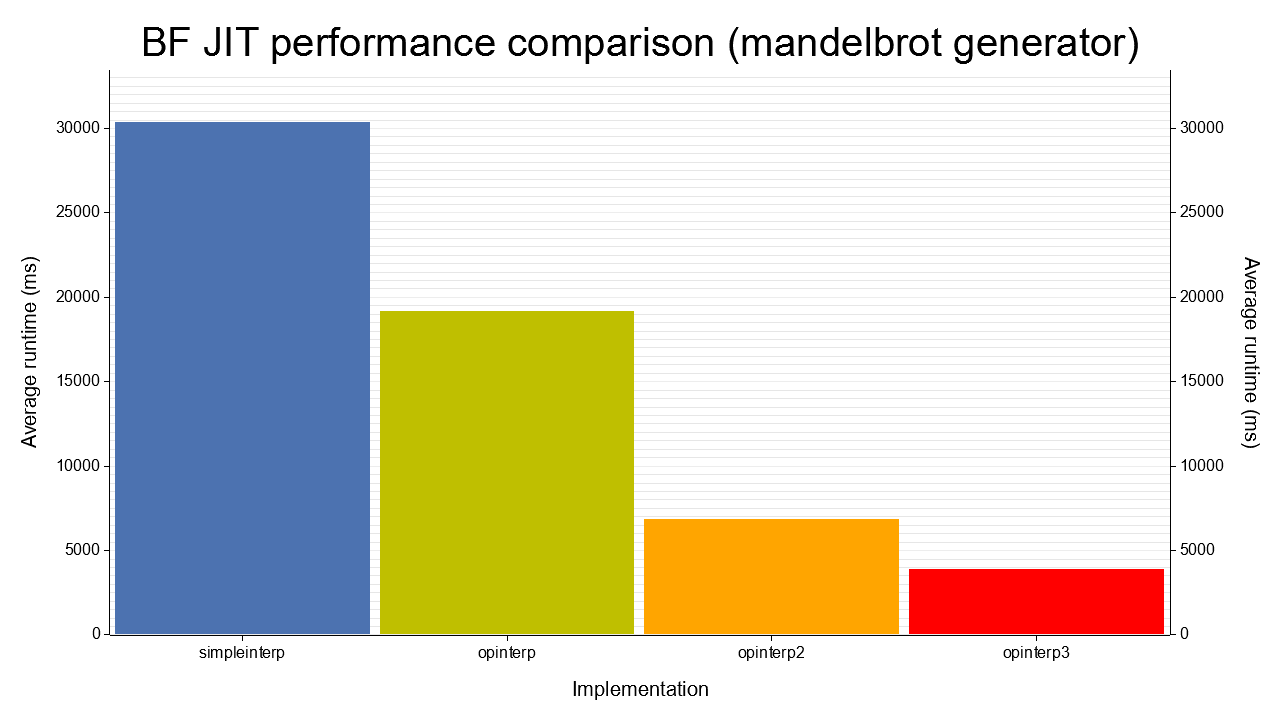
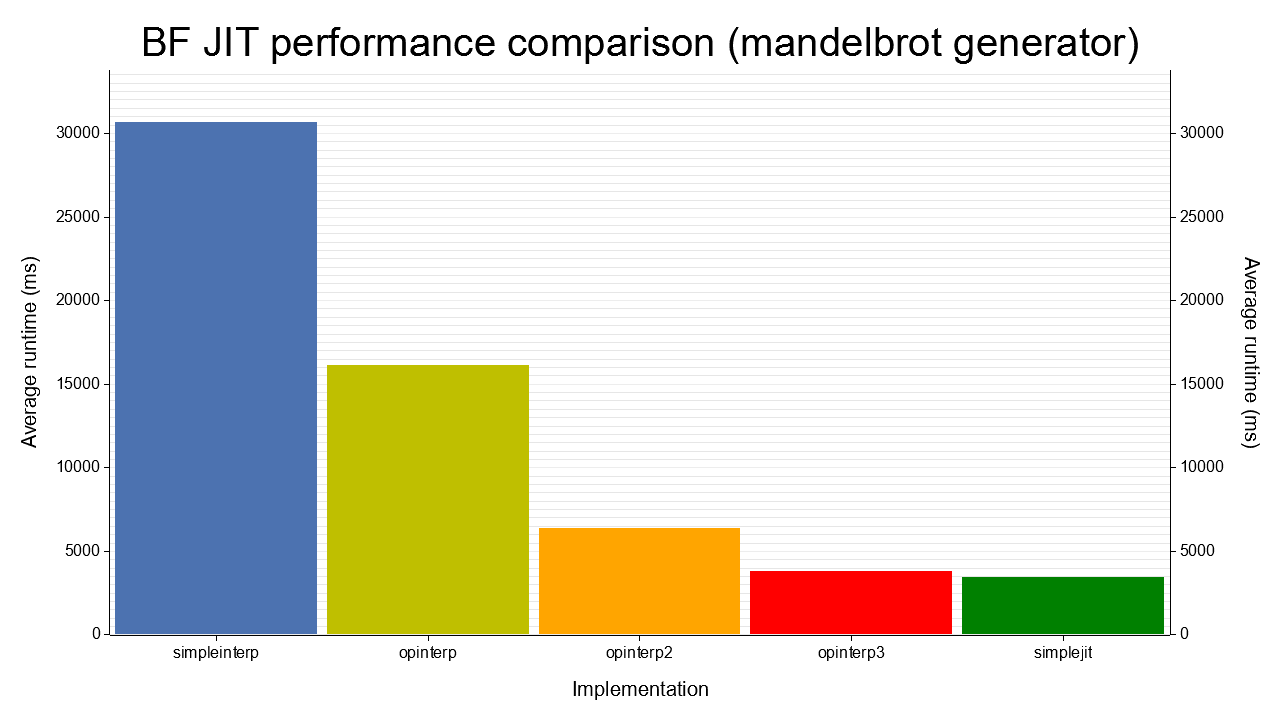
Implement simplejit

diff --git a/vms/simplejit/src/compiler.rs b/vms/simplejit/src/compiler.rs
@@ -1,0 +1,209 @@
+use {
+    crate::{
+        parser::{Instruction, Program},
+        runtime::Runtime,
+    },
+    util::{BfError, BfResult},
+};
+
+struct CodeBuilder {
+    machine_code: Vec<u8>,
+}
+
+impl CodeBuilder {
+    fn new() -> Self {
+        Self {
+            machine_code: vec![],
+        }
+    }
+
+    fn code(self) -> Vec<u8> {
+        self.machine_code
+    }
+
+    fn len(&self) -> usize {
+        self.machine_code.len()
+    }
+
+    fn emit_byte(&mut self, byte: u8) {
+        self.machine_code.push(byte);
+    }
+
+    fn emit_bytes(&mut self, bytes: impl AsRef<[u8]>) {
+        for byte in bytes.as_ref() {
+            self.emit_byte(*byte);
+        }
+    }
+
+    fn replace_byte_at_offset(&mut self, offset: usize, byte: u8) {
+        self.machine_code[offset] = byte;
+    }
+
+    fn replace_u32_at_offset(&mut self, offset: usize, value: u32) {
+        self.replace_byte_at_offset(offset, (value & 0xff).try_into().unwrap());
+        self.replace_byte_at_offset(offset + 1, ((value >> 8) & 0xff).try_into().unwrap());
+        self.replace_byte_at_offset(offset + 2, ((value >> 16) & 0xff).try_into().unwrap());
+        self.replace_byte_at_offset(offset + 3, ((value >> 24) & 0xff).try_into().unwrap());
+    }
+
+    fn emit_u32(&mut self, value: u32) {
+        self.emit_byte((value & 0xff).try_into().unwrap());
+        self.emit_byte(((value >> 8) & 0xff).try_into().unwrap());
+        self.emit_byte(((value >> 16) & 0xff).try_into().unwrap());
+        self.emit_byte(((value >> 24) & 0xff).try_into().unwrap());
+    }
+
+    fn emit_u64(&mut self, value: u64) {
+        self.emit_u32((value & 0xffffffff).try_into().unwrap());
+        self.emit_u32(((value >> 32) & 0xffffffff).try_into().unwrap());
+    }
+
+    fn emit_pointer(&mut self, ptr: *const ()) {
+        self.emit_u64((ptr as usize).try_into().unwrap());
+    }
+}
+
+pub fn compile(program: Program, runtime: &mut Runtime) -> BfResult<Vec<u8>> {
+    let mut builder = CodeBuilder::new();
+
+    // pushq %r13
+    builder.emit_bytes([0x41, 0x55]);
+
+    #[cfg(target_os = "windows")]
+    {
+        // subq $0x20, %rsp
+        builder.emit_bytes([0x48, 0x83, 0xec, 0x20]);
+    }
+
+    // movabs <address of memory>, %r13
+    builder.emit_bytes([0x49, 0xbd]);
+    builder.emit_pointer(runtime.memory_ptr() as *const ());
+
+    let mut open_bracket_stack = vec![];
+
+    for (i, instruction) in program.instructions.into_iter().enumerate() {
+        match instruction {
+            Instruction::IncPtr => {
+                // inc %r13
+                builder.emit_bytes([0x49, 0xff, 0xc5]);
+            }
+            Instruction::DecPtr => {
+                // dec %r13
+                builder.emit_bytes([0x49, 0xff, 0xcd]);
+            }
+            Instruction::IncData => {
+                // addb $1, 0(%r13)
+                builder.emit_bytes([0x41, 0x80, 0x45, 0x00, 0x01]);
+            }
+            Instruction::DecData => {
+                // subb $1, 0(%r13)
+                builder.emit_bytes([0x41, 0x80, 0x6d, 0x00, 0x01]);
+            }
+            Instruction::Read => {
+                #[cfg(any(target_os = "linux", target_os = "macos"))]
+                {
+                    // movabs <address of runtime>, %rdi
+                    builder.emit_bytes([0x48, 0xbf]);
+                    builder.emit_pointer(runtime as *const Runtime as *const ());
+                }
+                #[cfg(target_os = "windows")]
+                {
+                    // movabs <address of runtime>, %rcx
+                    builder.emit_bytes([0x48, 0xb9]);
+                    builder.emit_pointer(runtime as *const Runtime as *const ());
+                }
+
+                // movabs <address of read function>, %rax
+                builder.emit_bytes([0x48, 0xb8]);
+                builder.emit_pointer(Runtime::read as *const ());
+                // call *%rax
+                builder.emit_bytes([0xff, 0xd0]);
+                // movq %rax, 0(%r13)
+                builder.emit_bytes([0x49, 0x89, 0x45, 0x00]);
+            }
+            Instruction::Write => {
+                #[cfg(any(target_os = "linux", target_os = "macos"))]
+                {
+                    // movabs <address of runtime>, %rdi
+                    builder.emit_bytes([0x48, 0xbf]);
+                    builder.emit_pointer(runtime as *const Runtime as *const ());
+                    // movq 0(%r13), %rsi
+                    builder.emit_bytes([0x49, 0x8b, 0x75, 0x00]);
+                }
+                #[cfg(target_os = "windows")]
+                {
+                    // movabs <address of runtime>, %rcx
+                    builder.emit_bytes([0x48, 0xb9]);
+                    builder.emit_pointer(runtime as *const Runtime as *const ());
+                    // movq 0(%r13), %rdx
+                    builder.emit_bytes([0x49, 0x8b, 0x55, 0x00]);
+                }
+
+                // movabs <address of write function>, %rax
+                builder.emit_bytes([0x48, 0xb8]);
+                builder.emit_pointer(Runtime::write as *const ());
+                // call *%rax
+                builder.emit_bytes([0xff, 0xd0]);
+            }
+            Instruction::JumpIfZero => {
+                // cmpb $0, 0(%r13)
+                builder.emit_bytes([0x41, 0x80, 0x7d, 0x00, 0x00]);
+
+                // Save the location in the stack, and emit JZ (with 32-bit relative offset) with 4
+                // placeholder zeroes that will be fixed up later.
+                open_bracket_stack.push(builder.len());
+                builder.emit_bytes([0x0f, 0x84]);
+                builder.emit_u32(0);
+            }
+            Instruction::JumpIfNotZero => {
+                let open_bracket_offset = open_bracket_stack.pop().ok_or_else(|| {
+                    BfError::Bf(format!("Unmatched closing ']' at position {i}."))
+                })?;
+
+                // cmpb $0, 0(%r13)
+                builder.emit_bytes([0x41, 0x80, 0x7d, 0x00, 0x00]);
+
+                let jump_back_from = builder.len() + 6;
+                let jump_back_to = open_bracket_offset + 6;
+                let pcrel_offset_back = compute_relative_32bit_offset(jump_back_from, jump_back_to);
+
+                // jnz <open_bracket_location>
+                builder.emit_bytes([0x0f, 0x85]);
+                builder.emit_u32(pcrel_offset_back);
+
+                let jump_forward_from = open_bracket_offset + 6;
+                let jump_forward_to = builder.len();
+                let pcrel_offset_forward =
+                    compute_relative_32bit_offset(jump_forward_from, jump_forward_to);
+                builder.replace_u32_at_offset(open_bracket_offset + 2, pcrel_offset_forward);
+            }
+        }
+    }
+
+    #[cfg(target_os = "windows")]
+    {
+        // addq $0x20, %rsp
+        builder.emit_bytes([0x48, 0x83, 0xc4, 0x20]);
+    }
+    // popq %r13
+    builder.emit_bytes([0x41, 0x5d]);
+
+    // ret
+    builder.emit_byte(0xc3);
+
+    Ok(builder.code())
+}
+
+fn compute_relative_32bit_offset(jump_from: usize, jump_to: usize) -> u32 {
+    if jump_to >= jump_from {
+        let diff: u64 = (jump_to - jump_from).try_into().unwrap();
+        debug_assert!(diff < (1u64 << 31));
+        diff.try_into().unwrap()
+    } else {
+        // Here the diff is negative, so we need to encode it as 2s complement.
+        let diff: u64 = (jump_from - jump_to).try_into().unwrap();
+        debug_assert!(diff - 1 < (1u64 << 31));
+        let diff_u32: u32 = diff.try_into().unwrap();
+        !diff_u32 + 1
+    }
+}

diff --git a/vms/simplejit/src/parser.rs b/vms/simplejit/src/parser.rs
@@ -1,0 +1,63 @@
+use util::BfResult;
+
+#[derive(Debug, Eq, PartialEq)]
+pub enum Instruction {
+    IncPtr,
+    DecPtr,
+    IncData,
+    DecData,
+    Read,
+    Write,
+    JumpIfZero,
+    JumpIfNotZero,
+}
+
+#[derive(Debug, Eq, PartialEq)]
+pub struct Program {
+    pub instructions: Vec<Instruction>,
+}
+
+pub fn parse(source_code: &str) -> BfResult<Program> {
+    let mut instructions = vec![];
+
+    for c in source_code.chars() {
+        match c {
+            '>' => instructions.push(Instruction::IncPtr),
+            '<' => instructions.push(Instruction::DecPtr),
+            '+' => instructions.push(Instruction::IncData),
+            '-' => instructions.push(Instruction::DecData),
+            ',' => instructions.push(Instruction::Read),
+            '.' => instructions.push(Instruction::Write),
+            '[' => instructions.push(Instruction::JumpIfZero),
+            ']' => instructions.push(Instruction::JumpIfNotZero),
+            _ => (),
+        }
+    }
+
+    Ok(Program { instructions })
+}
+
+#[cfg(test)]
+mod tests {
+    use super::{parse, Instruction, Program};
+
+    #[test]
+    fn parse_works() {
+        let program = parse(">a<+bcde-,_.[]_1234567890か").unwrap();
+        assert_eq!(
+            program,
+            Program {
+                instructions: vec![
+                    Instruction::IncPtr,
+                    Instruction::DecPtr,
+                    Instruction::IncData,
+                    Instruction::DecData,
+                    Instruction::Read,
+                    Instruction::Write,
+                    Instruction::JumpIfZero,
+                    Instruction::JumpIfNotZero,
+                ],
+            }
+        );
+    }
+}

diff --git a/vms/simplejit/src/runtime.rs b/vms/simplejit/src/runtime.rs
@@ -1,0 +1,57 @@
+use {
+    memmap2::MmapMut,
+    std::{
+        io::{Read, Write},
+        mem,
+    },
+    util::BfResult,
+};
+
+type AsmEntryPoint = extern "C" fn();
+
+const MEMORY_SIZE: usize = 30000;
+
+pub struct Runtime<'a> {
+    memory: [u8; MEMORY_SIZE],
+    stdin: &'a mut dyn Read,
+    stdout: &'a mut dyn Write,
+}
+
+impl<'a> Runtime<'a> {
+    pub fn new(stdin: &'a mut dyn Read, stdout: &'a mut dyn Write) -> Self {
+        Self {
+            memory: [0; MEMORY_SIZE],
+            stdin,
+            stdout,
+        }
+    }
+
+    pub fn memory_ptr(&mut self) -> *mut u8 {
+        self.memory.as_mut_ptr()
+    }
+
+    pub fn run(&self, machine_code: &[u8]) -> BfResult<()> {
+        let mut mmap = MmapMut::map_anon(machine_code.len())?;
+        mmap.copy_from_slice(machine_code);
+
+        let mmap = mmap.make_exec()?;
+        let entry_point_pointer = mmap.as_ptr() as *const ();
+        let entry_point =
+            unsafe { mem::transmute::<*const (), AsmEntryPoint>(entry_point_pointer) };
+        entry_point();
+
+        Ok(())
+    }
+
+    pub extern "C" fn read(&mut self) -> u8 {
+        let mut c = [0; 1];
+        self.stdin.read_exact(&mut c).unwrap();
+
+        c[0]
+    }
+
+    pub extern "C" fn write(&mut self, byte: u8) {
+        self.stdout.write_all(&[byte]).unwrap();
+        self.stdout.flush().unwrap();
+    }
+}

diff --git a/bench/src/lib.rs b/bench/src/lib.rs
@@ -17,6 +17,7 @@ const BAR1_COLOR: RGBColor = RGBColor(76, 114, 176);
 const BAR2_COLOR: RGBColor = RGBColor(191, 191, 0);
 const BAR3_COLOR: RGBColor = RGBColor(255, 165, 0);
 const BAR4_COLOR: RGBColor = RGBColor(255, 0, 0);
+const BAR5_COLOR: RGBColor = RGBColor(0, 128, 0);
 
 struct ImplInfo {
     name: &'static str,
@@ -62,6 +63,7 @@ fn graph_results_for_file(
         ImplInfo::new("opinterp", &opinterp::run, source_code, input)?,
         ImplInfo::new("opinterp2", &opinterp2::run, source_code, input)?,
         ImplInfo::new("opinterp3", &opinterp3::run, source_code, input)?,
+        ImplInfo::new("simplejit", &simplejit::run, source_code, input)?,
     ];
 
     create_graph(title, short_title, impl_infos)?;
@@ -141,6 +143,7 @@ fn create_graph<const N: usize>(
                 "opinterp" => BAR2_COLOR.filled(),
                 "opinterp2" => BAR3_COLOR.filled(),
                 "opinterp3" => BAR4_COLOR.filled(),
+                "simplejit" => BAR5_COLOR.filled(),
                 _ => unreachable!(),
             })
             .data(impl_infos.iter().map(|x| (&x.name, x.millis))),

diff --git a/vms/simplejit/src/lib.rs b/vms/simplejit/src/lib.rs
@@ -1,0 +1,20 @@
+use {
+    runtime::Runtime,
+    std::io::{Read, Write},
+    util::BfResult,
+};
+
+mod compiler;
+mod parser;
+mod runtime;
+
+#[cfg(not(target_arch = "x86_64"))]
+compile_error!("Only x86-64 supported at the moment.");
+
+pub fn run(source_code: &str, stdin: &mut dyn Read, stdout: &mut dyn Write) -> BfResult<()> {
+    let program = parser::parse(source_code)?;
+    let mut runtime = Runtime::new(stdin, stdout);
+
+    let machine_code = compiler::compile(program, &mut runtime)?;
+    runtime.run(&machine_code)
+}

diff --git a/vms/simplejit/src/main.rs b/vms/simplejit/src/main.rs
@@ -1,0 +1,5 @@
+use util::{run_main, BfResult};
+
+fn main() -> BfResult<()> {
+    run_main(simplejit::run)
+}
